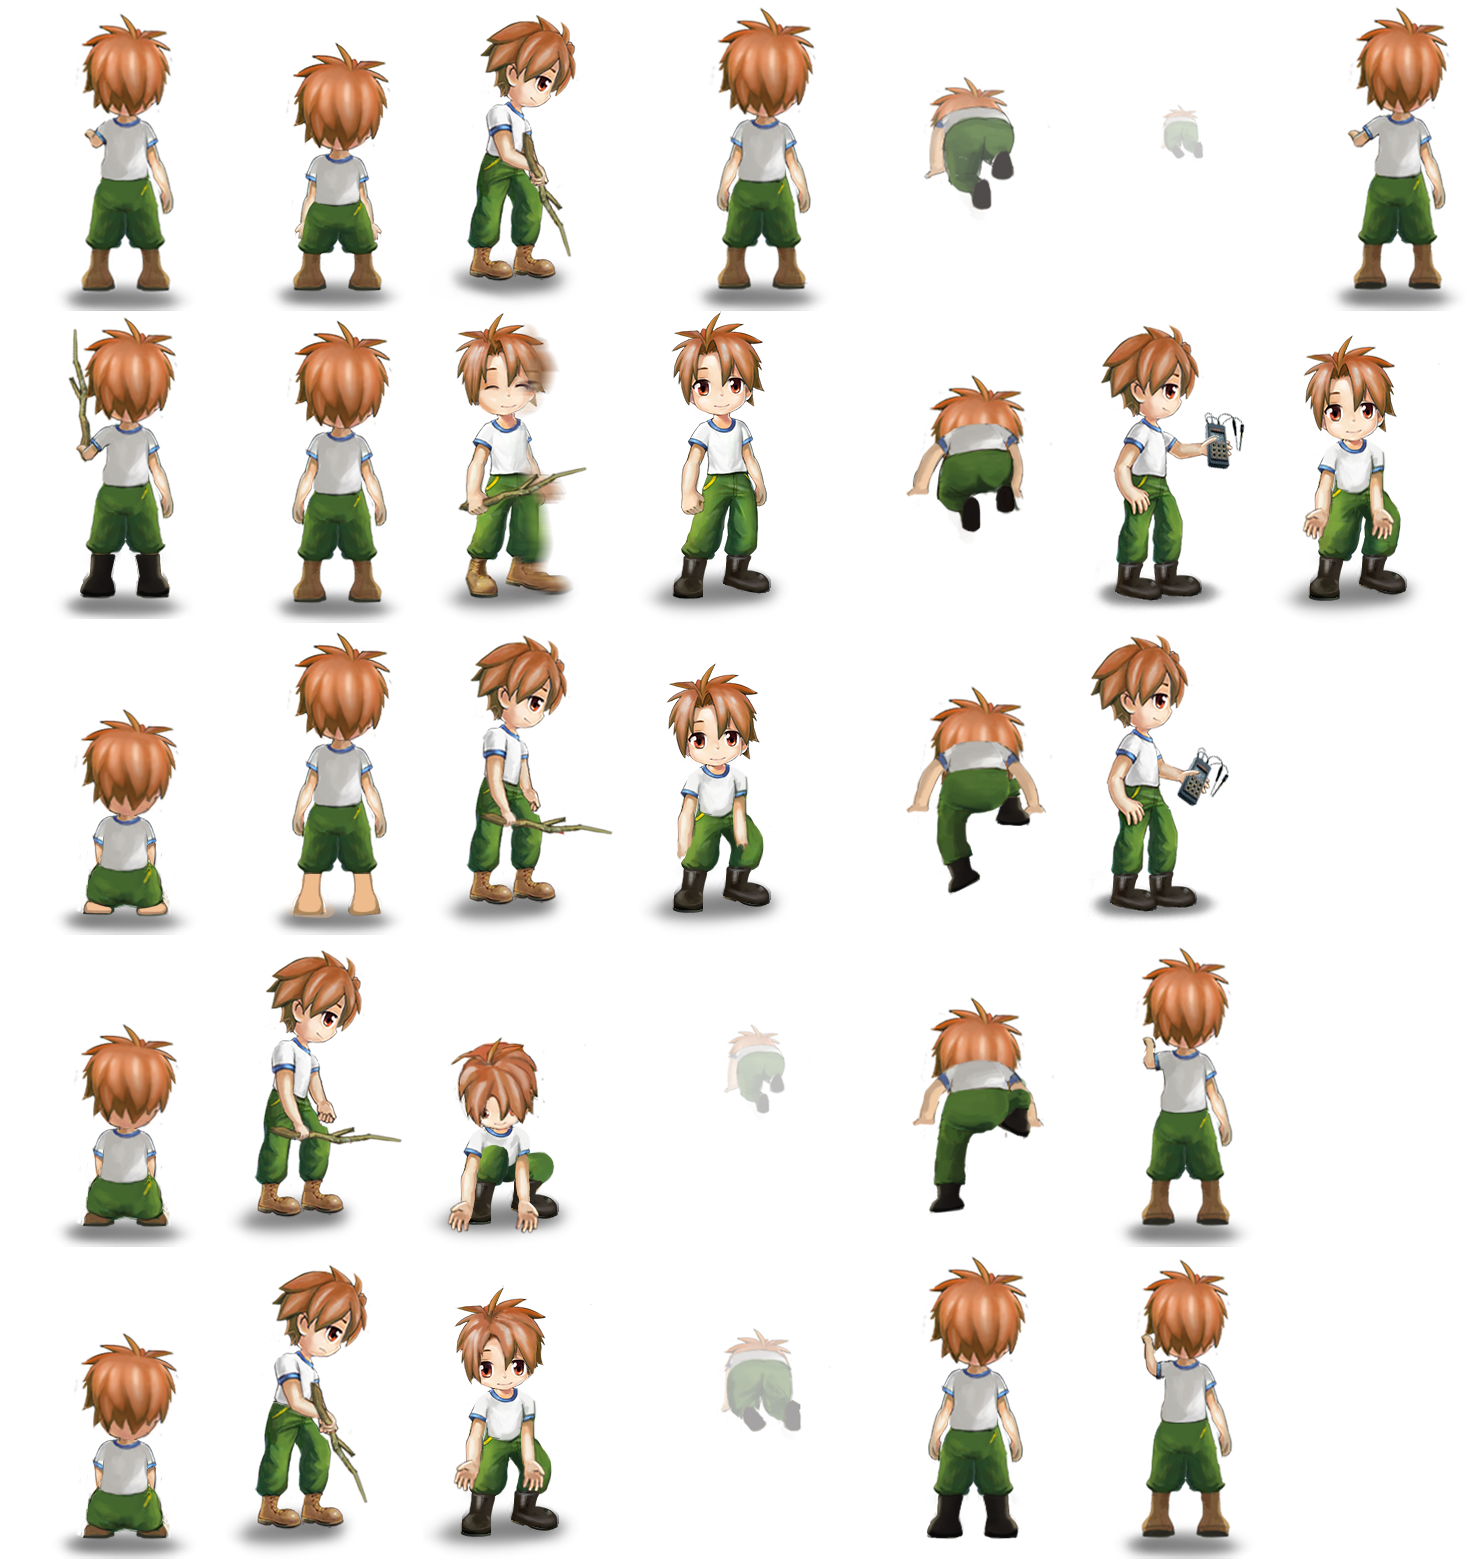
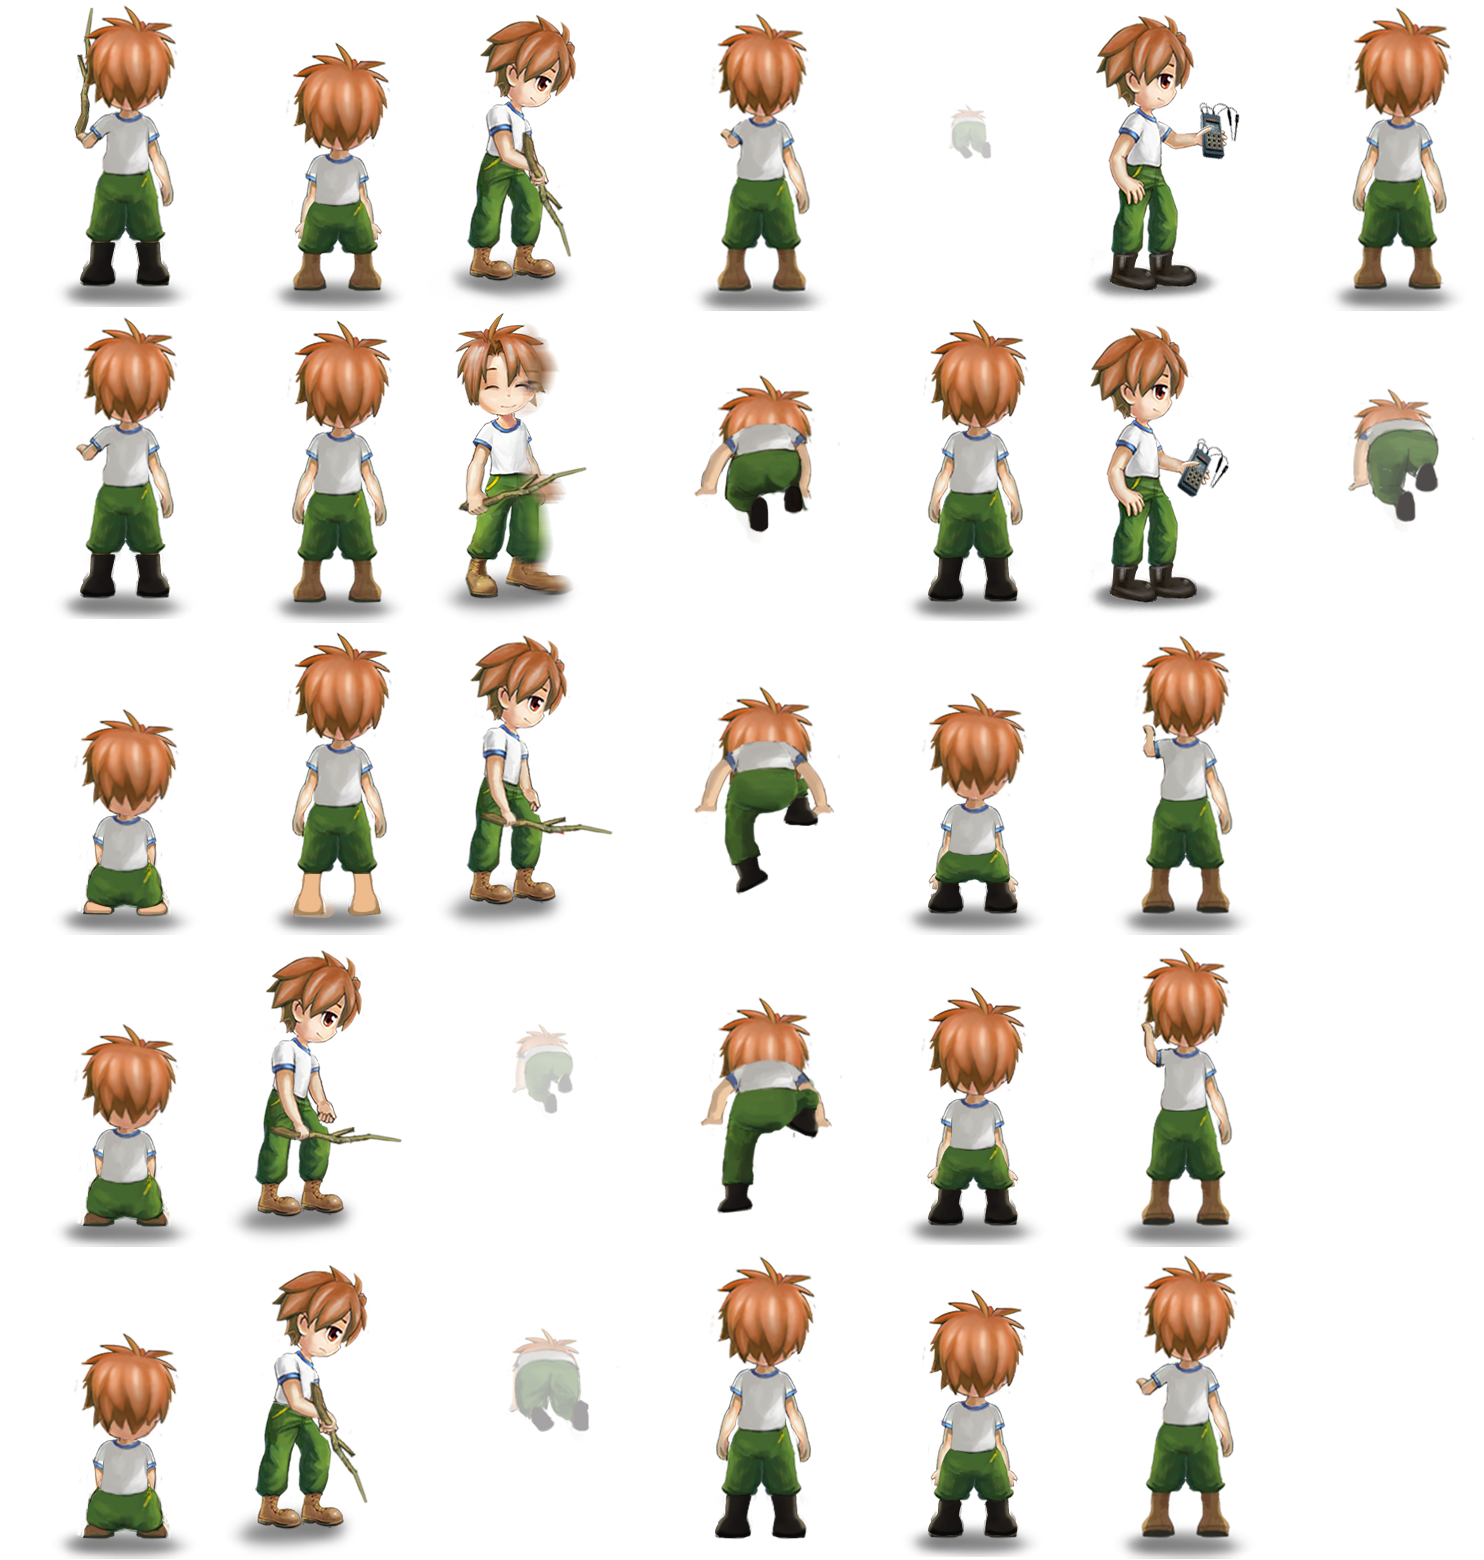
finished water-1-pipeline

diff --git a/bak/js/scene/water_intopipescene.js b/bak/js/scene/water_intopipescene.js
@@ -14,6 +14,9 @@
 		playboy:null,
 		currentkey:'empty',
 		keydises:null,
+		
+		isbranchonhand:false,
+		isinstrumentonhand:false,
 		constructor: function(properties) {
 			WaterIntopipescene.superclass.constructor.call(this, properties);
 			this.init(properties);
@@ -50,6 +53,8 @@
 				pinkkey:140,
 				purplekey:180
 			};
+			this.isbranchonhand = false;
+			this.isinstrumentonhand = false;
 			game.sounds.play(14,true);
 		},
 		checkShowFingerObjects:function(mouseX,mouseY){
@@ -79,14 +84,34 @@
 		},
 		
 		checkActiveObjects:function(mouseX,mouseY){
+			if(this.checkActiveItemWithoutPos(mouseX,mouseY,this.items['bluelock'])||this.checkActiveItemWithoutPos(mouseX,mouseY,this.items['purplelock'])||this.checkActiveItemWithoutPos(mouseX,mouseY,this.items['yellowlock'])){
+				var obj = this.items['bluelock'];
+				this.sayNo();
+				return true;
+			}
 			if(this.checkActiveItemWithoutPos(mouseX,mouseY,this.items['pinklock'])){
 				var obj = this.items['pinklock'];
 				if(this.currentkey == 'pinkkey'){
 					var scene = this;
 					this.currentOnhandImg.removeFromParent();
-					obj.removeFromParent();
-					this.items['closerailimg'].visible = false;
-					this.items['openrailimg'].visible = true;
+					scene.items['pinkkey'].removeFromParent();
+					obj.status = 2;
+					var scene = this;
+					scene.gotoDosomething(obj,0.8,0,0,'onshoesuptake',300,function(){
+						scene.items['branch'].visible = true;
+						scene.items['branch'].x = 586;
+						scene.items['branch'].y = 555;
+						scene.items['branch'].status = 2;
+						scene.items['branch'].state = 2;
+					},function(){
+						scene.items['closerailimg'].visible = false;
+						scene.items['openrailimg'].visible = true;
+						scene.items['lockclose'].visible = false;
+						scene.items['lockopen'].visible = true;
+						scene.items['pinkexit'].status = 1;
+					});
+				}else{
+					this.sayNo();
 				}
 				return true;
 			}
@@ -141,8 +166,9 @@
 			if(this.checkActiveItemWithoutPos(mouseX,mouseY,this.items['branch'])){
 				var obj = this.items['branch'];
 				var scene = this;
+				this.isbranchonhand = true;
 				if(obj.state == 0){
-					this.gotoDosomething(obj,1,0,0,'breakoffbranch',800,function(){
+					this.gotoDosomething(obj,1,0,0,'breakoffbranch',550,function(){
 					
 					},function(){
 						obj.visible = false;
@@ -151,11 +177,14 @@
 					});
 				}else{
 					scene.currentOnhandImg.removeFromParent();
-					this.gotoDosomething(obj,1,0,0,'onshoestake',800,function(){
+					this.gotoDosomething(obj,1,0,0,'onshoesdowntake',400,function(){
 						
 					},function(){
 						obj.visible = false;
 						obj.status = 2;
+						scene.items['instrumentinbox'].state = 1;
+						scene.isbranchonhand = true;
+						scene.isinstrumentonhand = false;
 						new Hilo.Bitmap({image:'img/water/instrumentonfloor.png',x:obj.x,y:obj.y}).addTo(scene);
 						scene.handonProp('img/water/branchonhand.png',scene.hero.posx-44,scene.hero.posy-149);
 					});
@@ -164,9 +193,14 @@
 				return true;
 			}
 			if(this.checkActiveItemWithoutPos(mouseX,mouseY,this.items['instrumentinbox'])){
+				if(this.items['shoesinbox'].status == 1){
+					this.sayNo();
+					return true;
+				}
 				var obj = this.items['instrumentinbox'];
 				var scene = this;
-				this.gotoDosomething(obj,1,0,0,'onshoestake',800,function(){
+				this.isinstrumentonhand = true;
+				this.gotoDosomething(obj,1,0,0,'onshoesdowntake',500,function(){
 					
 				},function(){
 					obj.visible = false;
@@ -178,7 +212,7 @@
 			if(this.checkActiveItemWithoutPos(mouseX,mouseY,this.items['shoesinbox'])){
 				var obj = this.items['shoesinbox'];
 				var scene = this;
-				this.gotoDosomething(obj,1,0,0,'wareshoes',1800,function(){
+				this.gotoDosomething(obj,1,0,0,'wareshoes',1100,function(){
 					obj.visible = false;
 					obj.status = 2;
 					obj.removeFromParent();
@@ -189,19 +223,27 @@
 			}
 			if(this.checkActiveItemWithoutPos(mouseX,mouseY,this.items['closebox'])){
 				var obj = this.items['closebox'];
+				if(!this.isbranchonhand){
+					this.sayNo();
+					return;
+				}
 				var scene = this;
 				this.currentOnhandImg.removeFromParent();
-				this.gotoDosomething(obj,1,0,0,'prybox',1800,function(){
+				this.gotoDosomething(obj,1,0,0,'prybox',400,function(){
 					
 				},function(){
 					obj.visible = false;
 					obj.status = 2;
+					scene.items['openbox'].visible = true;
 					scene.items['branch'].visible = true;
 					scene.items['branch'].x = 886;
 					scene.items['branch'].y = 555;
-					scene.items['branch'].status = 1;
+					//scene.items['branch'].status = 1;
+					scene.items['instrumentinbox'].status = 1;
+					scene.items['shoesinbox'].status = 1;
 					scene.items['branch'].state = 2;
 					scene.items['branch'].targety = 50;
+					scene.isbranchonhand = false;
 				});
 				return true;
 			}
@@ -209,6 +251,10 @@
 			return false;
 		},
 		takeKey:function(keyname){
+			if(!this.isbranchonhand || this.items['instrumentinbox'].state == 0){
+				this.sayNo();
+				return;
+			}
 			var obj = this.items[keyname];
 			var scene = this;
 			this.currentOnhandImg.visible = false;
@@ -226,9 +272,10 @@
 				}
 			var action = 'upbranch';
 			if(obj.state != 0){
-				action = 'onshoestake';
+				action = 'onshoesdowntake';
+						  
 			}
-			this.gotoDosomething(obj,1,0,0,action,800,function(){
+			this.gotoDosomething(obj,1,0,0,action,200,function(){
 					
 				},function(){
 					scene.currentOnhandImg.visible = true;
@@ -241,6 +288,10 @@
 		
 		checkwater:function(pointname){
 			var obj = this.items[pointname];
+			if(!this.isinstrumentonhand){
+				this.sayNo();
+				return;
+			}
 			var scene = this;
 			scene.currentOnhandImg.visible = false;
 			this.gotoDosomething(obj,1,0,0,'checkwater',1000,function(){
@@ -249,6 +300,7 @@
 					if(pointname == 'twocheckpoint'){
 						scene.items['greenlamp'].visible = false;
 						scene.items['redlamp'].visible = true;
+						scene.items['branch'].status = 1;
 						game.sounds.play(36,false);
 					}
 					scene.items['redlamp'].x = scene.items['greenlamp'].x = scene.playboy.x + 160;
@@ -418,9 +470,9 @@
 				[game.configdata.LAYOUTTEYP.img,'openbox','img/water/openbox.png',1011,521,true],
 				[game.configdata.LAYOUTTEYP.img,'redlamp','img/water/redlamp.png',1011,521,false],
 				[game.configdata.LAYOUTTEYP.img,'greenlamp','img/water/greenlamp.png',1011,521,false],
-				[game.configdata.LAYOUTTEYP.activeobj,'shoesinbox','shoesinbox','img/water/inboxshoes.png',1028,532,0,100,[0,0,30,30],1],
-				[game.configdata.LAYOUTTEYP.activeobj,'instrumentinbox','instrumentinbox','img/water/inboxinstrument.png',1080,532,0,130,[0,0,30,30],1],
-				[game.configdata.LAYOUTTEYP.activeobj,'closebox','closebox','img/water/closebox.png',1011,521,-30,90,[0,0,150,100],1],
+				[game.configdata.LAYOUTTEYP.activeobj,'shoesinbox','shoesinbox','img/water/inboxshoes.png',1028,532,0,100,[0,0,30,30],2],
+				[game.configdata.LAYOUTTEYP.activeobj,'instrumentinbox','instrumentinbox','img/water/inboxinstrument.png',1080,532,0,130,[0,0,30,30],2],
+				[game.configdata.LAYOUTTEYP.activeobj,'closebox','closebox','img/water/closebox.png',1011,511,-30,90,[0,0,150,100],1],
 				[game.configdata.LAYOUTTEYP.activeobj,'branch','branch','img/water/branch.png',158,302,62,202,[0,0,150,30],1],
 				
 				[game.configdata.LAYOUTTEYP.activeobj,'onecheckpoint','onecheckpoint','empty',229,378,62,202,[0,0,150,60],1],
@@ -429,14 +481,15 @@
 				[game.configdata.LAYOUTTEYP.activeobj,'fourcheckpoint','fourcheckpoint','empty',968,378,22,202,[0,0,150,60],1],
 				
 				[game.configdata.LAYOUTTEYP.activeobj,'bluelock','bluelock','empty',433,315,62,202,[0,0,30,40],1],
-				[game.configdata.LAYOUTTEYP.activeobj,'pinklock','pinklock','empty',684,315,62,202,[0,0,30,40],1],
+				[game.configdata.LAYOUTTEYP.activeobj,'pinklock','pinklock','empty',684,315,22,202,[0,0,30,40],1],
 				[game.configdata.LAYOUTTEYP.activeobj,'purplelock','purplelock','empty',929,315,62,202,[0,0,30,40],1],
 				[game.configdata.LAYOUTTEYP.activeobj,'yellowlock','yellowlock','empty',1170,315,22,202,[0,0,30,40],1],
 				
-				[game.configdata.LAYOUTTEYP.activeobj,'pinkexit','pinkexit','empty',506,229,122,342,[0,0,120,120],1],
+				[game.configdata.LAYOUTTEYP.activeobj,'pinkexit','pinkexit','empty',466,189,122,342,[0,0,180,180],2],
 			];
 			
 			this.layoutUIElement(data);
+			this.items['openbox'].visible = false;
 			
 			this.wateratlas = new Hilo.TextureAtlas({
                 image:'img/water/stream.png',
@@ -469,20 +522,22 @@
                 image:'img/water/water1boyatlas.png',
                 width: 1484,
                 height: 1560,
-                frames:[[0, 0, 210, 310], [636, 0, 210, 310], [1272, 0, 210, 310], [1060, 1248, 210, 310], [1060, 936, 210, 310], [1060, 624, 210, 310], [1060, 312, 210, 310], [1060, 0, 210, 310], [848, 1248, 210, 310], [848, 936, 210, 310], [848, 624, 210, 310], [848, 312, 210, 310], [848, 0, 210, 310], [636, 1248, 210, 310], [636, 936, 210, 310], [636, 624, 210, 310], [636, 312, 210, 310], [1272, 312, 210, 310], [424, 1248, 210, 310], [424, 936, 210, 310], [424, 624, 210, 310], [424, 312, 210, 310], [424, 0, 210, 310], [212, 1248, 210, 310], [212, 936, 210, 310], [212, 1248, 210, 310], [212, 936, 210, 310], [212, 624, 210, 310], [212, 312, 210, 310], [212, 0, 210, 310], [0, 1248, 210, 310], [0, 936, 210, 310], [0, 1248, 210, 310], [0, 1248, 210, 310], [0, 936, 210, 310], [0, 624, 210, 310], [0, 312, 210, 310], [0, 312, 210, 310]],
+                frames:[[636, 0, 210, 310], [1272, 0, 210, 310], [1060, 1248, 210, 310], [1060, 936, 210, 310], [1060, 624, 210, 310], [1060, 312, 210, 310], [1060, 0, 210, 310], [848, 1248, 210, 310], [848, 936, 210, 310], [848, 624, 210, 310], [848, 312, 210, 310], [848, 0, 210, 310], [636, 1248, 210, 310], [636, 936, 210, 310], [636, 624, 210, 310], [636, 312, 210, 310], [1272, 312, 210, 310], [424, 1248, 210, 310], [424, 936, 210, 310], [424, 624, 210, 310], [424, 312, 210, 310], [424, 0, 210, 310], [212, 1248, 210, 310], [212, 936, 210, 310], [212, 1248, 210, 310], [212, 936, 210, 310], [212, 624, 210, 310], [212, 312, 210, 310], [212, 0, 210, 310], [0, 1248, 210, 310], [0, 936, 210, 310], [0, 1248, 210, 310], [0, 1248, 210, 310], [0, 936, 210, 310], [0, 624, 210, 310], [0, 312, 210, 310], [0, 0, 210, 310]],
                 sprites: {
                 	idle:[0,0],
                 	breakoffbranch:[0,1,2,3,4],
-                	prybox:{from:20,to:26},
-                	wareshoes:[27,28,29,30,31,32,33,34,35,8],
-                	onshoestake:[36,37,30,36,8],
+                	prybox:{from:19,to:23},
+                	wareshoes:[26,27,28,29,30,31,32,33,34],
+                	onshoesdowntake:[7,8,9,10],
+                	onshoesuptake:[10,35],
                 	checkwater:[5,6,6,6],
-                	upbranch:[36,37],
-                	goexit:[8,9,10,11,12,13,14,7]
+                	upbranch:[36,36],
+                	goexit:[11,12,13,14,15,16,17,18],
                 }
             });
             
             this.playboy = this.createSprite(this.atlas,'idle',1023,211,10);
+            this.playboy.visible = false;
             
 		},
 		createSprite:function(sourceatlas,defaultaction,x,y,interval){
@@ -499,7 +554,7 @@
 		sayNo:function(){
 			game.headPanel.sayNo();
 			if(this.currentOnhandObj == null){
-				this.hero.switchState('nocan',10);
+				//this.hero.switchState('nocan',10);
 			}
 		},
 		
